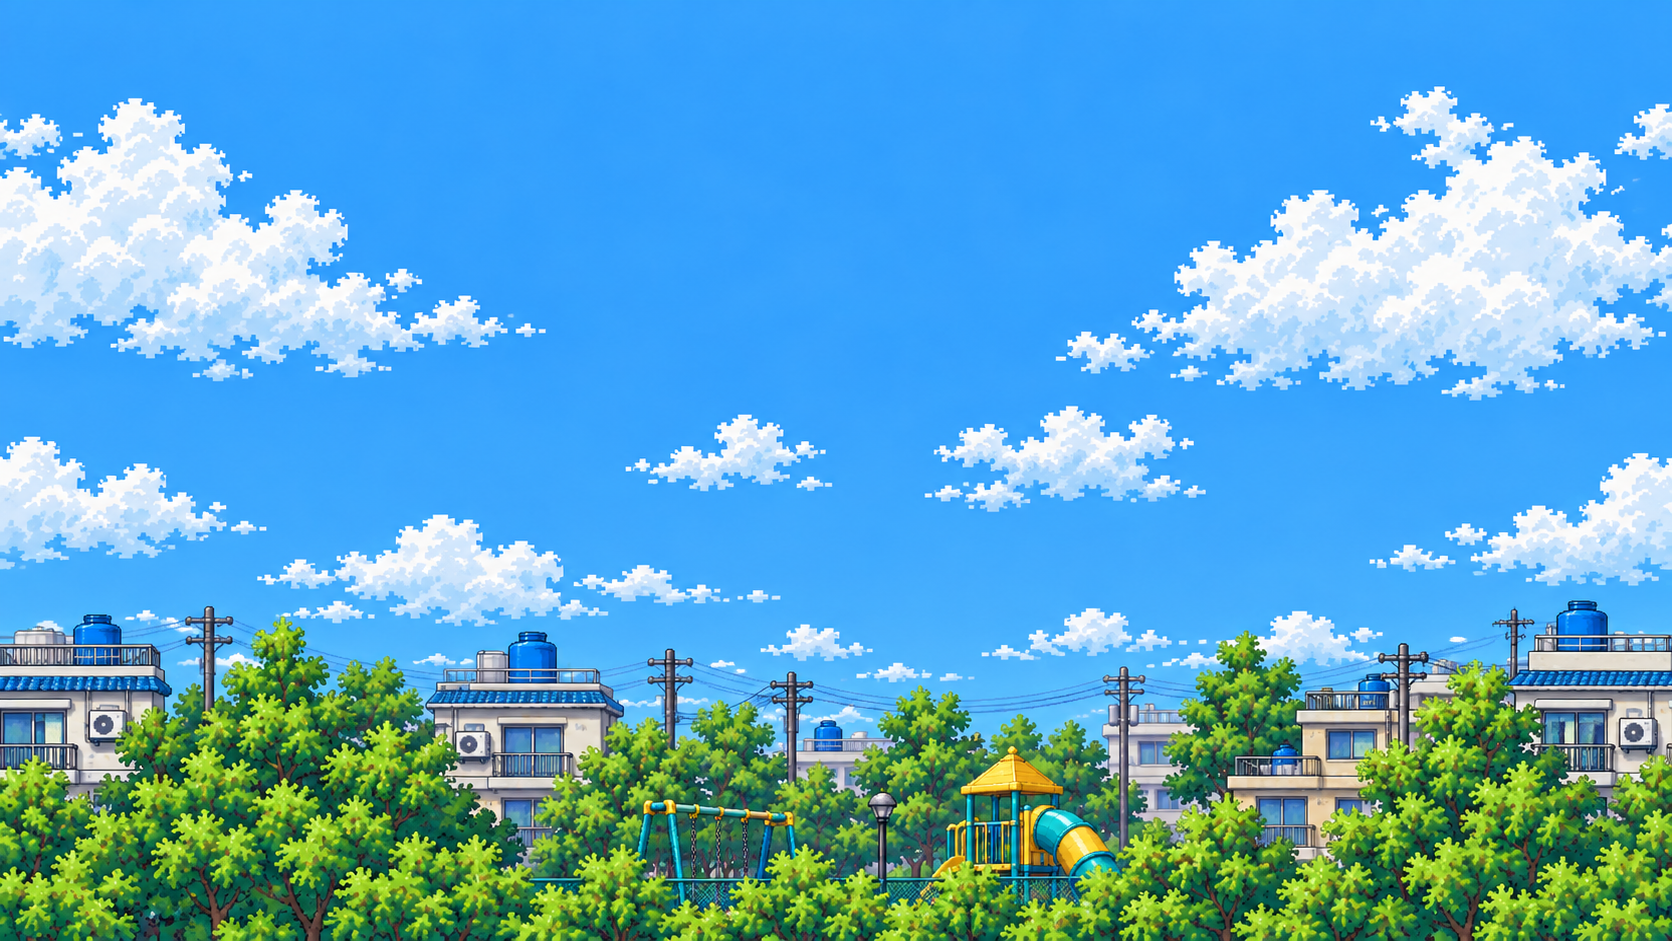
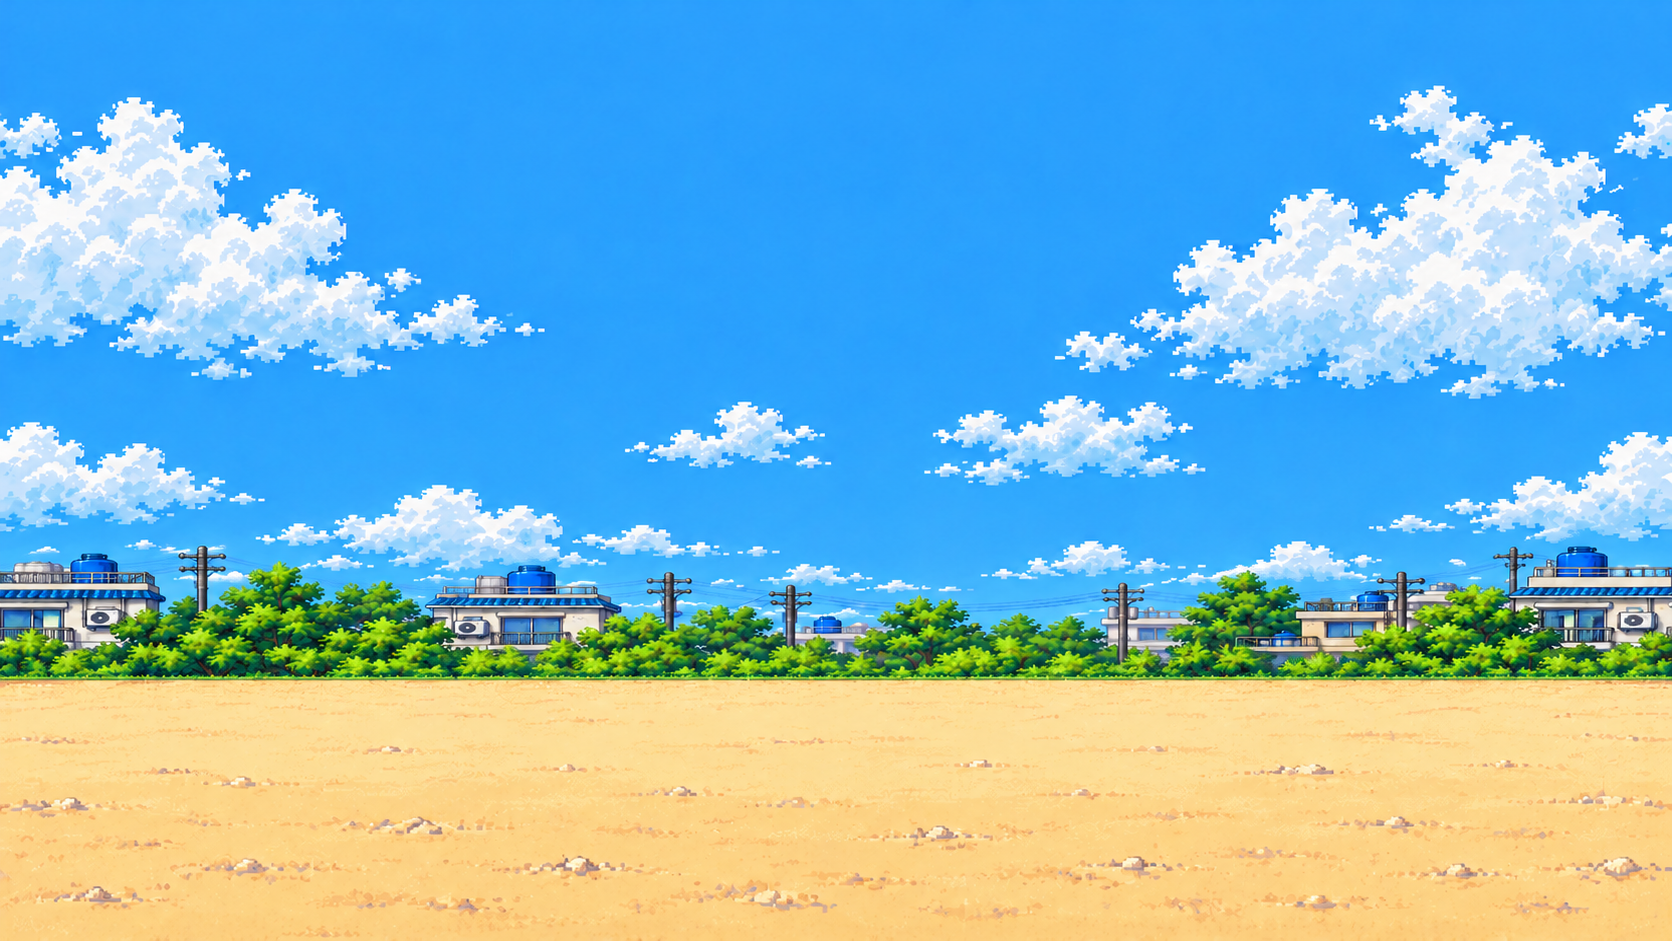
feat(cutscene): 월드 2 놀이터 진입 연출 연결
Plan: 2026-10-14-world02-playground-entrance
Phase: P01-entrance-and-background
Task: T02-entrance-cutscene-and-transition

- 새 놀이터 컷신과 코기 대사를 자동 재생
- 월드 1 클리어 선택부터 월드 2 시작까지 전환·저장 검증

diff --git a/src/game/scenes/World02EntranceScene.ts b/src/game/scenes/World02EntranceScene.ts
@@ -1,0 +1,177 @@
+import * as Phaser from "phaser";
+import { GameEventBus } from "../bridge/GameEventBus";
+import type { ProgressState } from "../core/types";
+import { WORLD02_ENTRANCE_CUTSCENE } from "../data/cutscenes/worlds";
+
+export interface World02EntranceSceneData {
+  readonly nextStageId: "world-02-stage-1";
+}
+
+const IMAGE_KEYS = [
+  "world-02-entrance-playground",
+  "world-02-entrance-corgi-nervous",
+  "world-02-entrance-corgi-resolved",
+  "world-02-entrance-dialogue-frame",
+] as const;
+
+export class World02EntranceScene extends Phaser.Scene {
+  private progress?: ProgressState;
+  private eventBus?: GameEventBus;
+  private background?: Phaser.GameObjects.Image;
+  private portrait?: Phaser.GameObjects.Image;
+  private dimmer?: Phaser.GameObjects.Rectangle;
+  private skipControl?: Phaser.GameObjects.Container;
+  private beatTimer?: Phaser.Time.TimerEvent;
+  private removeSkipRequest?: () => void;
+  private canSkip = false;
+  private finished = false;
+
+  public constructor() {
+    super("World02EntranceScene");
+  }
+
+  public create(data?: Partial<World02EntranceSceneData>): void {
+    this.finished = false;
+    this.cameras.main.setZoom(1);
+    this.cameras.main.centerOn(640, 360);
+    this.cameras.main.setBackgroundColor("#a3dcfa");
+
+    const eventBus = this.registry.get("gameEventBus");
+    const progress = this.registry.get("progressState") as ProgressState | undefined;
+    const missingImage = IMAGE_KEYS.find((key) => !this.textures.exists(key));
+    if (
+      data?.nextStageId !== "world-02-stage-1" ||
+      !(eventBus instanceof GameEventBus) ||
+      !progress ||
+      missingImage
+    ) {
+      this.add.rectangle(640, 360, 1280, 720, 0x221d29);
+      this.add.text(640, 360, missingImage
+        ? `월드 2 진입 그림을 불러오지 못했습니다: ${missingImage}`
+        : "월드 2 진입 데이터를 불러오지 못했습니다.", {
+        fontFamily: "Galmuri11Pixel, monospace",
+        fontSize: "25px",
+        color: "#ffdddd",
+        align: "center",
+        wordWrap: { width: 1000 },
+      }).setOrigin(0.5);
+      return;
+    }
+
+    this.eventBus = eventBus;
+    this.progress = progress;
+    this.canSkip = progress.seenCutsceneIds.includes(WORLD02_ENTRANCE_CUTSCENE.id);
+    this.removeSkipRequest = eventBus.on("cutscene-skip-requested", () => this.skip());
+    this.input.keyboard?.on("keydown-ESC", this.skip, this);
+    this.events.once(Phaser.Scenes.Events.SHUTDOWN, this.cleanup, this);
+
+    eventBus.emit("cutscene-started", {
+      cutsceneId: WORLD02_ENTRANCE_CUTSCENE.id,
+      skipAllowed: this.canSkip,
+    });
+    this.background = this.add.image(640, 360, IMAGE_KEYS[0]).setDisplaySize(1280, 720);
+    if (this.canSkip) this.createSkipControl();
+    this.playBeat(0);
+  }
+
+  private playBeat(index: number): void {
+    if (this.finished) return;
+    const beat = WORLD02_ENTRANCE_CUTSCENE.beats[index];
+    if (!beat) {
+      this.cameras.main.fadeOut(400, 0, 0, 0);
+      this.beatTimer = this.time.delayedCall(400, () => this.finish(false));
+      return;
+    }
+
+    if (index === 0 && this.background) {
+      this.tweens.add({
+        targets: this.background,
+        scaleX: this.background.scaleX * 1.05,
+        scaleY: this.background.scaleY * 1.05,
+        duration: beat.durationMs,
+        ease: "Sine.easeInOut",
+      });
+    } else if (index === 1 || index === 2) {
+      this.showPortrait(index === 1 ? IMAGE_KEYS[1] : IMAGE_KEYS[2]);
+      if (index === 2) {
+        this.skipControl?.setVisible(false);
+        this.eventBus?.emit("cutscene-beat", {
+          cutsceneId: WORLD02_ENTRANCE_CUTSCENE.id,
+          beat,
+          index,
+          totalBeats: WORLD02_ENTRANCE_CUTSCENE.beats.length,
+          skipAllowed: this.canSkip,
+          manualAdvance: false,
+          captionIndex: 0,
+          captionCount: 1,
+        });
+      }
+    }
+    this.beatTimer = this.time.delayedCall(beat.durationMs, () => this.playBeat(index + 1));
+  }
+
+  private showPortrait(assetKey: string): void {
+    this.portrait?.destroy();
+    if (!this.dimmer) {
+      this.dimmer = this.add.rectangle(640, 360, 1280, 720, 0x162838, 0.19);
+    }
+    this.portrait = this.add.image(640, 406, assetKey).setDisplaySize(570, 570);
+    this.portrait.setAlpha(0);
+    this.tweens.add({ targets: this.portrait, alpha: 1, duration: 220 });
+    this.tweens.add({
+      targets: this.portrait,
+      y: 403,
+      duration: 500,
+      ease: "Sine.easeInOut",
+      yoyo: true,
+      repeat: -1,
+    });
+  }
+
+  private createSkipControl(): void {
+    const narrowScreen = window.innerWidth < 720;
+    const box = this.add.rectangle(0, 0, narrowScreen ? 360 : 202, narrowScreen ? 100 : 48, 0x272331, 0.88)
+      .setStrokeStyle(2, 0xf0b95f)
+      .setInteractive({ useHandCursor: true });
+    const label = this.add.text(0, 0, "건너뛰기  ESC", {
+      fontFamily: "Galmuri11Pixel, monospace",
+      fontSize: narrowScreen ? "36px" : "19px",
+      color: "#fff8e5",
+    }).setOrigin(0.5);
+    this.skipControl = this.add.container(narrowScreen ? 1050 : 1145, narrowScreen ? 85 : 58, [box, label]).setDepth(10);
+    box.on("pointerdown", this.skip, this);
+  }
+
+  private skip(): void {
+    if (this.canSkip) this.finish(true);
+  }
+
+  private finish(skipped: boolean): void {
+    if (this.finished || !this.progress || !this.eventBus) return;
+    this.finished = true;
+    if (!this.progress.seenCutsceneIds.includes(WORLD02_ENTRANCE_CUTSCENE.id)) {
+      this.progress.seenCutsceneIds.push(WORLD02_ENTRANCE_CUTSCENE.id);
+    }
+    this.eventBus.emit("cutscene-finished", {
+      cutsceneId: WORLD02_ENTRANCE_CUTSCENE.id,
+      skipped,
+    });
+    this.scene.start("StageScene", {
+      stageId: "world-02-stage-1",
+      playerName: this.progress.playerName,
+    });
+  }
+
+  private cleanup(): void {
+    this.beatTimer?.remove(false);
+    this.beatTimer = undefined;
+    this.removeSkipRequest?.();
+    this.removeSkipRequest = undefined;
+    this.input.keyboard?.off("keydown-ESC", this.skip, this);
+    this.tweens.killTweensOf([this.background, this.portrait].filter(Boolean));
+    this.background = undefined;
+    this.portrait = undefined;
+    this.dimmer = undefined;
+    this.skipControl = undefined;
+  }
+}

diff --git a/src/components/game/GameShell.tsx b/src/components/game/GameShell.tsx
@@ -61,6 +61,7 @@ export function GameShell({ initialStageId, onExit }: GameShellProps): ReactElem
   const [statusOpen, setStatusOpen] = useState(false);
   const [activeStageId, setActiveStageId] = useState<StageId>(initialStageId);
   const [bossHearts, setBossHearts] = useState<0 | 1 | 2 | 3 | undefined>();
+  const [world02EntranceActive, setWorld02EntranceActive] = useState(false);
   const [introGateStep, setIntroGateStep] = useState<"intro" | "title" | "ready">("intro");
 
   useEffect(() => {
@@ -89,13 +90,17 @@ export function GameShell({ initialStageId, onExit }: GameShellProps): ReactElem
   useEffect(() => {
     const removeStart = eventBus.on("cutscene-started", (payload) => {
       if (payload.cutsceneId === "intro-home") setIntroGateStep("intro");
+      if (payload.cutsceneId === "world-02-intro") setWorld02EntranceActive(true);
     });
     const removeFinish = eventBus.on("cutscene-finished", (payload) => {
       if (payload.cutsceneId === "intro-home") setIntroGateStep("title");
+      if (payload.cutsceneId === "world-02-intro") setWorld02EntranceActive(false);
     });
+    const removeStage = eventBus.on("stage-started", () => setWorld02EntranceActive(false));
     return () => {
       removeStart();
       removeFinish();
+      removeStage();
     };
   }, [eventBus]);
 
@@ -217,12 +222,12 @@ export function GameShell({ initialStageId, onExit }: GameShellProps): ReactElem
   return (
     <div className="game-shell">
       <div className="game-content-frame">
-        {progressLoaded && introGateStep === "ready" && <SnackCoinCounter balance={progress.bankedCoins} />}
+        {progressLoaded && introGateStep === "ready" && !world02EntranceActive && <SnackCoinCounter balance={progress.bankedCoins} />}
         {progressLoaded && <PhaserGame className="phaser-viewport" gameEventBus={eventBus} progressState={sharedProgressState} />}
         <GameEventBridge eventBus={eventBus} onEvent={handleEvent} />
         <CutsceneOverlay eventBus={eventBus} onSkip={() => eventBus.emit("cutscene-skip-requested", {})} />
         {introGateStep === "title" && <IntroTitleOverlay initialName={progress.playerName} onConfirm={handleNameConfirm} />}
-        {introGateStep === "ready" && mode !== "stage-clear" && <GameOverlay stageTitle={stage.title} runtime={runtime} progress={progress} skills={SKILL_DEFINITIONS} tools={TOOL_DEFINITIONS} cooldowns={{}} bossHearts={activeStageId === "world-01-stage-boss" ? bossHearts : undefined} alive={mode !== "dead" && mode !== "cutscene"} safeZone={mode === "safe"} statusOpen={statusOpen} onEquip={handleEquip} onPurchase={handlePurchase} onKeybindChange={handleKeybindChange} onToggleStatus={() => setStatusOpen((open) => !open)} paused={paused} onTogglePause={() => eventBus.emit("pause-requested", { paused: !paused })} onResetProgress={() => setResetProgressDialogOpen(true)} />}
+        {introGateStep === "ready" && mode !== "stage-clear" && !world02EntranceActive && <GameOverlay stageTitle={stage.title} runtime={runtime} progress={progress} skills={SKILL_DEFINITIONS} tools={TOOL_DEFINITIONS} cooldowns={{}} bossHearts={activeStageId === "world-01-stage-boss" ? bossHearts : undefined} alive={mode !== "dead" && mode !== "cutscene"} safeZone={mode === "safe"} statusOpen={statusOpen} onEquip={handleEquip} onPurchase={handlePurchase} onKeybindChange={handleKeybindChange} onToggleStatus={() => setStatusOpen((open) => !open)} paused={paused} onTogglePause={() => eventBus.emit("pause-requested", { paused: !paused })} onResetProgress={() => setResetProgressDialogOpen(true)} />}
         {paused && introGateStep === "ready" && <PauseOverlay onResume={() => eventBus.emit("pause-requested", { paused: false })} />}
         {resetProgressDialogOpen && (
           <ResetProgressDialog
@@ -231,8 +236,8 @@ export function GameShell({ initialStageId, onExit }: GameShellProps): ReactElem
           />
         )}
         <DeathCounterOverlay deathCount={deathOverlayCount} visible={deathOverlayVisible} />
-        {introGateStep === "ready" && mode !== "stage-clear" && <div className="game-toast" role="status">{toast}</div>}
-        {onExit && <button className="exit-button" type="button" onClick={onExit}>나가기</button>}
+        {introGateStep === "ready" && mode !== "stage-clear" && !world02EntranceActive && <div className="game-toast" role="status">{toast}</div>}
+        {onExit && !world02EntranceActive && <button className="exit-button" type="button" onClick={onExit}>나가기</button>}
       </div>
     </div>
   );

diff --git a/src/game/data/cutscenes/worlds.ts b/src/game/data/cutscenes/worlds.ts
@@ -22,9 +22,24 @@ const WORLD01_BOSS_CLEAR_LINES = [
   { speaker: "calico", text: "말을 마친 후 기절한다." },
 ] as const;
 
+export const WORLD02_ENTRANCE_CUTSCENE: CutsceneScript = {
+  id: "world-02-intro",
+  stageId: "world-02-stage-1",
+  beats: [
+    { id: "playground-reveal", durationMs: 2500, skipAllowedAfterSeen: true },
+    { id: "corgi-nervous", durationMs: 1700, skipAllowedAfterSeen: true },
+    {
+      id: "corgi-resolve",
+      durationMs: 2300,
+      dialogue: [{ speaker: "corgi", text: "....가자!" }],
+      skipAllowedAfterSeen: true,
+    },
+  ],
+};
+
 export const WORLD_CUTSCENES: readonly CutsceneScript[] = [
   { id: "world-01-intro", stageId: "world-01-stage-1", beats: [{ id: "alley", durationMs: 3200, narration: "무법지대 뒷골목. 왕갈비뼈를 훔쳐간 냥아치 연합의 흔적이 골목 끝으로 이어진다.", musicKey: "world-01-peaceful", skipAllowedAfterSeen: true }] },
-  { id: "world-02-intro", stageId: "world-02-stage-1", beats: [{ id: "playground", durationMs: 3200, narration: "삐걱거리는 놀이터. 미끄럼틀 아래에서 고양이들의 수상한 웃음소리가 들린다.", musicKey: "world-02-amusement", skipAllowedAfterSeen: true }] },
+  WORLD02_ENTRANCE_CUTSCENE,
   { id: "world-03-intro", stageId: "world-03-stage-1", beats: [{ id: "junkyard", durationMs: 3200, narration: "냥아치 연합 아지트, 버려진 고물상. 여기서부터 함정은 노골적으로 억까를 시작한다.", musicKey: "world-03-factory", skipAllowedAfterSeen: true }] },
   { id: "world-04-intro", stageId: "world-04-stage-1", beats: [{ id: "rooftop", durationMs: 3200, narration: "바람이 몰아치는 옥상 지대. 꼬리 모터가 돌기 시작하면 발밑의 상식도 함께 날아간다.", musicKey: "world-04-rooftop", skipAllowedAfterSeen: true }] },
   { id: "world-05-intro", stageId: "world-05-stage-1", beats: [{ id: "kingdom", durationMs: 3200, narration: "냥아치 연합 본거지. 갈비뼈의 냄새가 우두머리의 왕좌 뒤에서 진하게 풍겨온다.", musicKey: "world-05-kingdom", skipAllowedAfterSeen: true }] },

diff --git a/src/app/globals.css b/src/app/globals.css
@@ -263,6 +263,24 @@ form { display: flex; gap: 6px; margin-top: 10px; } form input { min-width: 0; f
 .cutscene-footer > span { margin-right: auto; }
 .cutscene-footer .primary-button { min-height: 34px; padding: 6px 10px; font-size: 10px; }
 
+.cutscene-overlay--world02 { gap: 0; padding: 0 4% 3%; }
+.cutscene-overlay--world02 .cutscene-caption-frame {
+  display: flex;
+  align-items: center;
+  width: min(100%, 900px);
+  min-height: clamp(78px, 13vw, 154px);
+  max-height: none;
+  padding: 18px clamp(26px, 4vw, 54px);
+  overflow: visible;
+  border: 0;
+  background: transparent url("/assets/pixel/cutscenes/world-02/world-02-dialogue-frame.png") center / 100% auto no-repeat;
+  box-shadow: none;
+}
+.cutscene-overlay--world02 .cutscene-footer { justify-content: flex-end; margin-top: 0; }
+.cutscene-overlay--world02 .cutscene-footer > span { display: none; }
+.cutscene-overlay--world02 .dialogue-line { align-items: center; font-size: clamp(14px, 1.8vw, 21px) !important; }
+.cutscene-overlay--world02 .dialogue-line .dialogue-speaker { color: #ffd87a; }
+
 .item-card {
   position: relative;
   z-index: 1;
@@ -292,6 +310,9 @@ form { display: flex; gap: 6px; margin-top: 10px; } form input { min-width: 0; f
   .cutscene-narration,
   .dialogue-line { grid-template-columns: 62px minmax(0, 1fr); gap: 8px; }
   .cutscene-footer { width: 100%; }
+  .cutscene-overlay--world02 { padding: 0 2% 2%; }
+  .cutscene-overlay--world02 .cutscene-caption-frame { min-height: 72px; padding: 9px 22px; }
+  .cutscene-overlay--world02 .dialogue-line { grid-template-columns: 52px minmax(0, 1fr); font-size: 12px !important; }
   .item-card { padding: 14px 16px; }
   .item-card h2 { font-size: clamp(16px, 3vw, 22px); }
 }

diff --git a/src/components/game/CutsceneOverlay.tsx b/src/components/game/CutsceneOverlay.tsx
@@ -12,6 +12,7 @@ export interface CutsceneOverlayProps {
 }
 
 interface CutsceneOverlayState {
+  readonly cutsceneId: string;
   readonly beat: CutsceneBeat;
   readonly index: number;
   readonly totalBeats: number;
@@ -30,6 +31,7 @@ export function CutsceneOverlay({ eventBus, onSkip }: CutsceneOverlayProps): Rea
     const removeBeat = eventBus.on("cutscene-beat", (payload) => {
       const hasText = Boolean(payload.beat.narration || payload.beat.dialogue?.length);
       setState({
+        cutsceneId: payload.cutsceneId,
         beat: payload.beat,
         index: payload.index,
         totalBeats: payload.totalBeats,
@@ -81,7 +83,7 @@ export function CutsceneOverlay({ eventBus, onSkip }: CutsceneOverlayProps): Rea
     ? "문장 끝까지 보기"
     : captionIndex + 1 < captionCount ? "다음 대사" : index + 1 === totalBeats ? "대화 마치기" : "다음 장면";
   return (
-    <div className="cutscene-overlay">
+    <div className={"cutscene-overlay" + (state.cutsceneId === "world-02-intro" ? " cutscene-overlay--world02" : "")}>
       <div className="cutscene-vignette" />
       {beat.itemCard && <ItemCard item={beat.itemCard} />}
       {(beat.narration || beat.dialogue) && (

diff --git a/src/game/config.ts b/src/game/config.ts
@@ -6,6 +6,7 @@ import { IntroScene } from "./scenes/IntroScene";
 import { PrototypeScene } from "./scenes/PrototypeScene";
 import { StageScene } from "./scenes/StageScene";
 import { World01StageClearScene } from "./scenes/World01StageClearScene";
+import { World02EntranceScene } from "./scenes/World02EntranceScene";
 import type { ProgressState } from "./core/types";
 
 export const GAME_WIDTH = 1280;
@@ -55,7 +56,7 @@ export function createPhaserConfig(
         debug: false,
       },
     },
-    scene: [BootScene, PreloadScene, IntroScene, PrototypeScene, StageScene, World01StageClearScene],
+    scene: [BootScene, PreloadScene, IntroScene, PrototypeScene, StageScene, World01StageClearScene, World02EntranceScene],
   };
 }
 

diff --git a/src/game/scenes/World01StageClearScene.ts b/src/game/scenes/World01StageClearScene.ts
@@ -92,9 +92,8 @@ export class World01StageClearScene extends Phaser.Scene {
   private continueToNextStage(): void {
     if (!this.canContinue || this.transitioning || !this.progress) return;
     this.transitioning = true;
-    this.scene.start("StageScene", {
-      stageId: "world-02-stage-1",
-      playerName: this.progress.playerName,
+    this.scene.start("World02EntranceScene", {
+      nextStageId: "world-02-stage-1",
     });
   }
 }

diff --git a/.memory/phases/2026-10-14-world02-playground-entrance/P01-entrance-and-background/T02-entrance-cutscene-and-transition.md b/.memory/phases/2026-10-14-world02-playground-entrance/P01-entrance-and-background/T02-entrance-cutscene-and-transition.md
@@ -1,6 +1,6 @@
 # Task: T02 월드 2 진입 컷신과 자동 전환
 
-## Status: pending
+## Status: done
 
 ## Goal
 
@@ -76,13 +76,19 @@
 - 첫 두 비트에는 React 대사 UI가 없고, 세 번째에만 프레임과 대사가 나온다. `DialogueBox`와 `TypewriterText`는 현재 자동 표시 시간을 사용한다. 이미지를 글자와 합성하여 새 픽셀 대사창처럼 보이게 하되 텍스트는 접근 가능한 DOM으로 둔다.
 - React/Next 파일을 수정하기 전에 저장소 `AGENTS.md`가 요구하는 `node_modules/next/dist/docs/`의 관련 App Router/CSS 가이드를 읽는다.
 
+### I04. 실제 플레이 화면의 배경 접합 수정
+
+- Related Files:
+  - `public/assets/pixel/backgrounds/world-02/world-02-far.png` :: 기존 구도를 참고해 하단을 낮 시간대 모래 바닥으로 다시 생성; modify
+- 브라우저 확인에서 플레이 플랫폼 아래로 먼 배경의 건물과 나무가 한 번 더 드러났다. 이미지 생성 도구로 하단 30%를 모래 바닥으로 고쳐 중경 놀이터 아래가 자연스럽게 이어지도록 한다.
+
 ## Acceptance Criteria
 
-- [ ] `NEXT STAGE ->` 뒤 놀이터 전경 → 긴장한 코기 → 결심한 코기와 `....가자!` 순서가 자동 재생된다.
-- [ ] 장면에 사용된 놀이터·코기 두 표정·대사창은 모두 T01의 새 이미지이며, 대사는 한글 픽셀 글꼴의 실제 DOM 텍스트다.
-- [ ] 첫 재생에 추가 조작 없이 월드 2 첫 스테이지가 한 번만 시작된다. 첫 재생 건너뛰기는 막히고, 재시청 건너뛰기는 동작한다.
-- [ ] 재접속으로 클리어 화면을 다시 열어도 동일한 흐름이 이어진다. 컷신 완료 ID와 월드 1 보상·클리어 기록이 보존된다.
-- [ ] 컷신 중 플레이 HUD가 이미지/대사를 가리지 않는다. 데스크톱과 좁은 화면에서 얼굴과 대사창이 잘리지 않는다.
+- [x] `NEXT STAGE ->` 뒤 놀이터 전경 → 긴장한 코기 → 결심한 코기와 `....가자!` 순서가 자동 재생된다.
+- [x] 장면에 사용된 놀이터·코기 두 표정·대사창은 모두 T01의 새 이미지이며, 대사는 한글 픽셀 글꼴의 실제 DOM 텍스트다.
+- [x] 첫 재생에 추가 조작 없이 월드 2 첫 스테이지가 한 번만 시작된다. 첫 재생 건너뛰기는 막히고, 재시청 건너뛰기는 동작한다.
+- [x] 재접속으로 클리어 화면을 다시 열어도 동일한 흐름이 이어진다. 컷신 완료 ID와 월드 1 보상·클리어 기록이 보존된다.
+- [x] 컷신 중 플레이 HUD가 이미지/대사를 가리지 않는다. 데스크톱과 좁은 화면에서 얼굴과 대사창이 잘리지 않는다.
 
 ## Validation
 
@@ -109,6 +115,6 @@ Task: T02-entrance-cutscene-and-transition
 
 ## Progress
 
-- [ ] 구현 완료
-- [ ] 검증 통과
+- [x] 구현 완료 — 3비트 컷신, 월드 1 클리어 전환, DOM 대사창, HUD 숨김, 배경 접합 수정
+- [x] 검증 통과 — 에셋 검사, 자동 테스트 8건, 타입, lint, 빌드, 브라우저 첫 관람·재관람·재접속 및 좁은 화면
 - commit: pending
